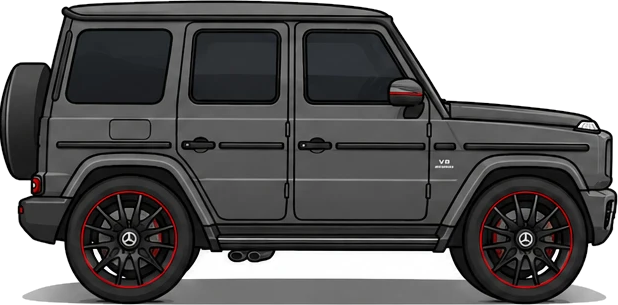
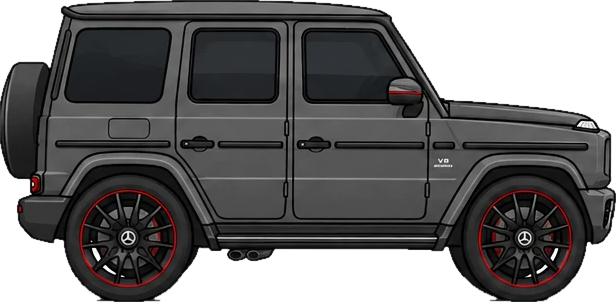
Гелик: вырезка без тени и белых просветов (тень убираем нижним блоком серых строк, оставляя шины), кайма срезана
Claude-Session: https://claude.ai/code/session_011h7oDPmmegoivb4yRZ71Zj

diff --git a/reels/perekupy/kit/img/gelik/cut.py b/reels/perekupy/kit/img/gelik/cut.py
@@ -1,16 +1,43 @@
-# python cut.py → gelik_side.png (сбоку, мордой вправо) и gelik_34.png (3/4 спереди): Гелик (Mercedes G 63) владельца без белого фона
+# python cut.py → gelik_side.png (сбоку, мордой вправо) и gelik_34.png (3/4 спереди): Гелик владельца без белого фона и без тени.
+# Тень под машиной того же серого, что и кузов, — убираем её полосой: ниже начала тени оставляем только тёмные шины; затем
+# белое, отрезанное от краёв (просвет между порогом и тенью), тоже фон; кайма по контуру — срезаем на 1 px.
 import numpy as np
 from PIL import Image
 from scipy import ndimage
 src = np.asarray(Image.open("source.webp").convert("RGB")).astype(int)
+
+
 def cut(box, out):
     x0, y0, x1, y1 = box; a = src[y0:y1, x0:x1]
-    lab, _ = ndimage.label(a.min(2) > 236)
+    v, sat = a.mean(2), a.max(2) - a.min(2)
+    white = a.min(2) > 225
+    grey = (sat < 10) & (v > 95) & (v < 140)
+    gf = grey.mean(1)                                         # доля серого в строке
+    rows = np.flatnonzero(gf > .25)
+    ground = a.shape[0]
+    if len(rows):                                             # тень — нижний сплошной блок «серых» строк: идём от него вверх
+        ground = rows.max()
+        while ground > 0 and gf[ground - 1] > .18:
+            ground -= 1
+    shadow = np.zeros_like(white); shadow[ground:] = ~(v[ground:] < 80)       # ниже — только тёмное (шины, диски)
+    bg = white | shadow
+    lab, _ = ndimage.label(bg)
     edge = set(lab[0]) | set(lab[-1]) | set(lab[:, 0]) | set(lab[:, -1]); edge.discard(0)
-    fg = ndimage.binary_fill_holes(~np.isin(lab, list(edge)))
-    lab2, n = ndimage.label(fg); sizes = ndimage.sum(fg, lab2, range(1, n + 1)); fg = lab2 == (1 + int(np.argmax(sizes)))
+    out_bg = np.isin(lab, list(edge))
+    # белые «окна», отрезанные от краёв, но большие и снизу (просвет под порогом) — тоже фон
+    lab2, n = ndimage.label(white & ~out_bg)
+    for k in range(1, n + 1):
+        m = lab2 == k; ys = np.nonzero(m)[0]
+        if m.sum() > 400 and ys.max() >= ground - 8:          # только просветы у земли; номер и фары внутри кузова не трогаем
+            out_bg |= m
+    fg = ~out_bg
+    fg = ndimage.binary_opening(fg, iterations=1)
+    lab3, n3 = ndimage.label(fg); sizes = ndimage.sum(fg, lab3, range(1, n3 + 1)); fg = lab3 == (1 + int(np.argmax(sizes)))
+    fg = ndimage.binary_erosion(fg, iterations=1)             # светлая кайма по контуру
     ys, xs = np.nonzero(fg); yy0, yy1, xx0, xx1 = ys.min(), ys.max() + 1, xs.min(), xs.max() + 1
     alpha = (ndimage.gaussian_filter(fg.astype(float), .6) * 255).clip(0, 255)
-    Image.fromarray(np.dstack([a, alpha]).astype(np.uint8)[yy0:yy1, xx0:xx1]).save(out); print(out, xx1 - xx0, yy1 - yy0)
+    Image.fromarray(np.dstack([a, alpha]).astype(np.uint8)[yy0:yy1, xx0:xx1]).save(out); print(out, xx1 - xx0, yy1 - yy0, "тень с", ground)
+
+
 cut((10, 560, 630, 900), "gelik_side.png")
-cut((630, 560, 1095, 900), "gelik_34.png")
+cut((630, 560, 1100, 900), "gelik_34.png")
